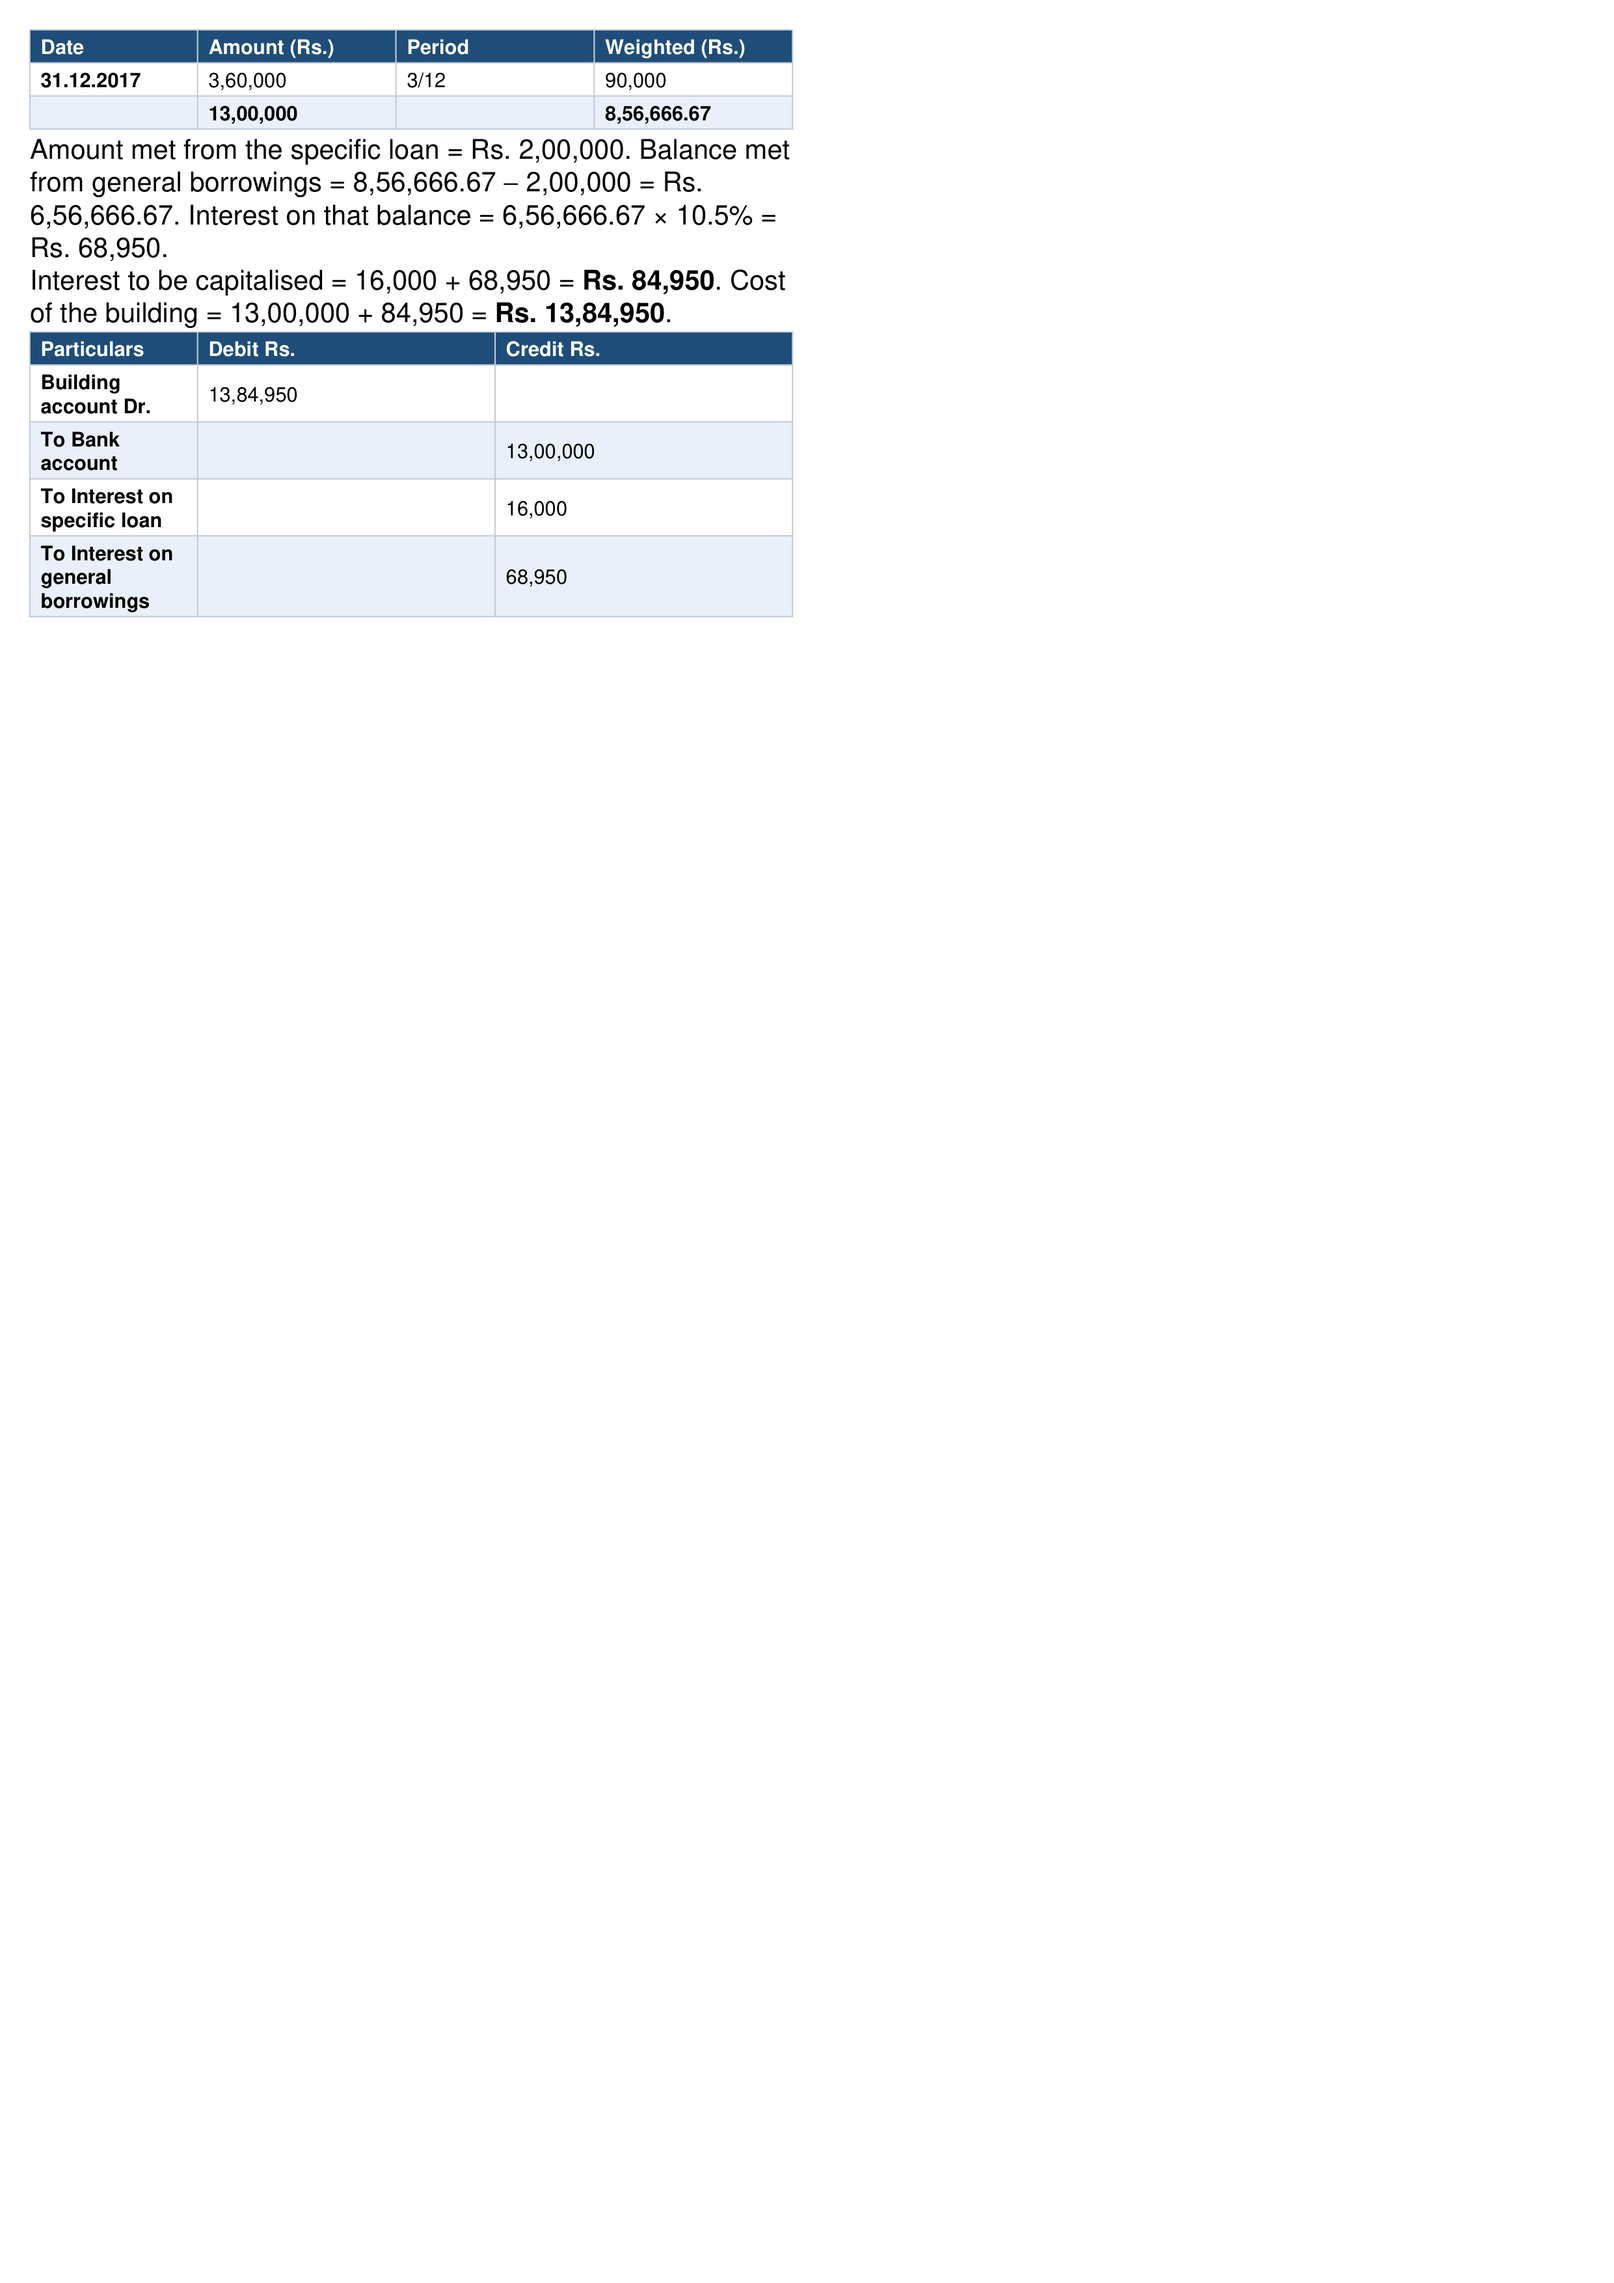
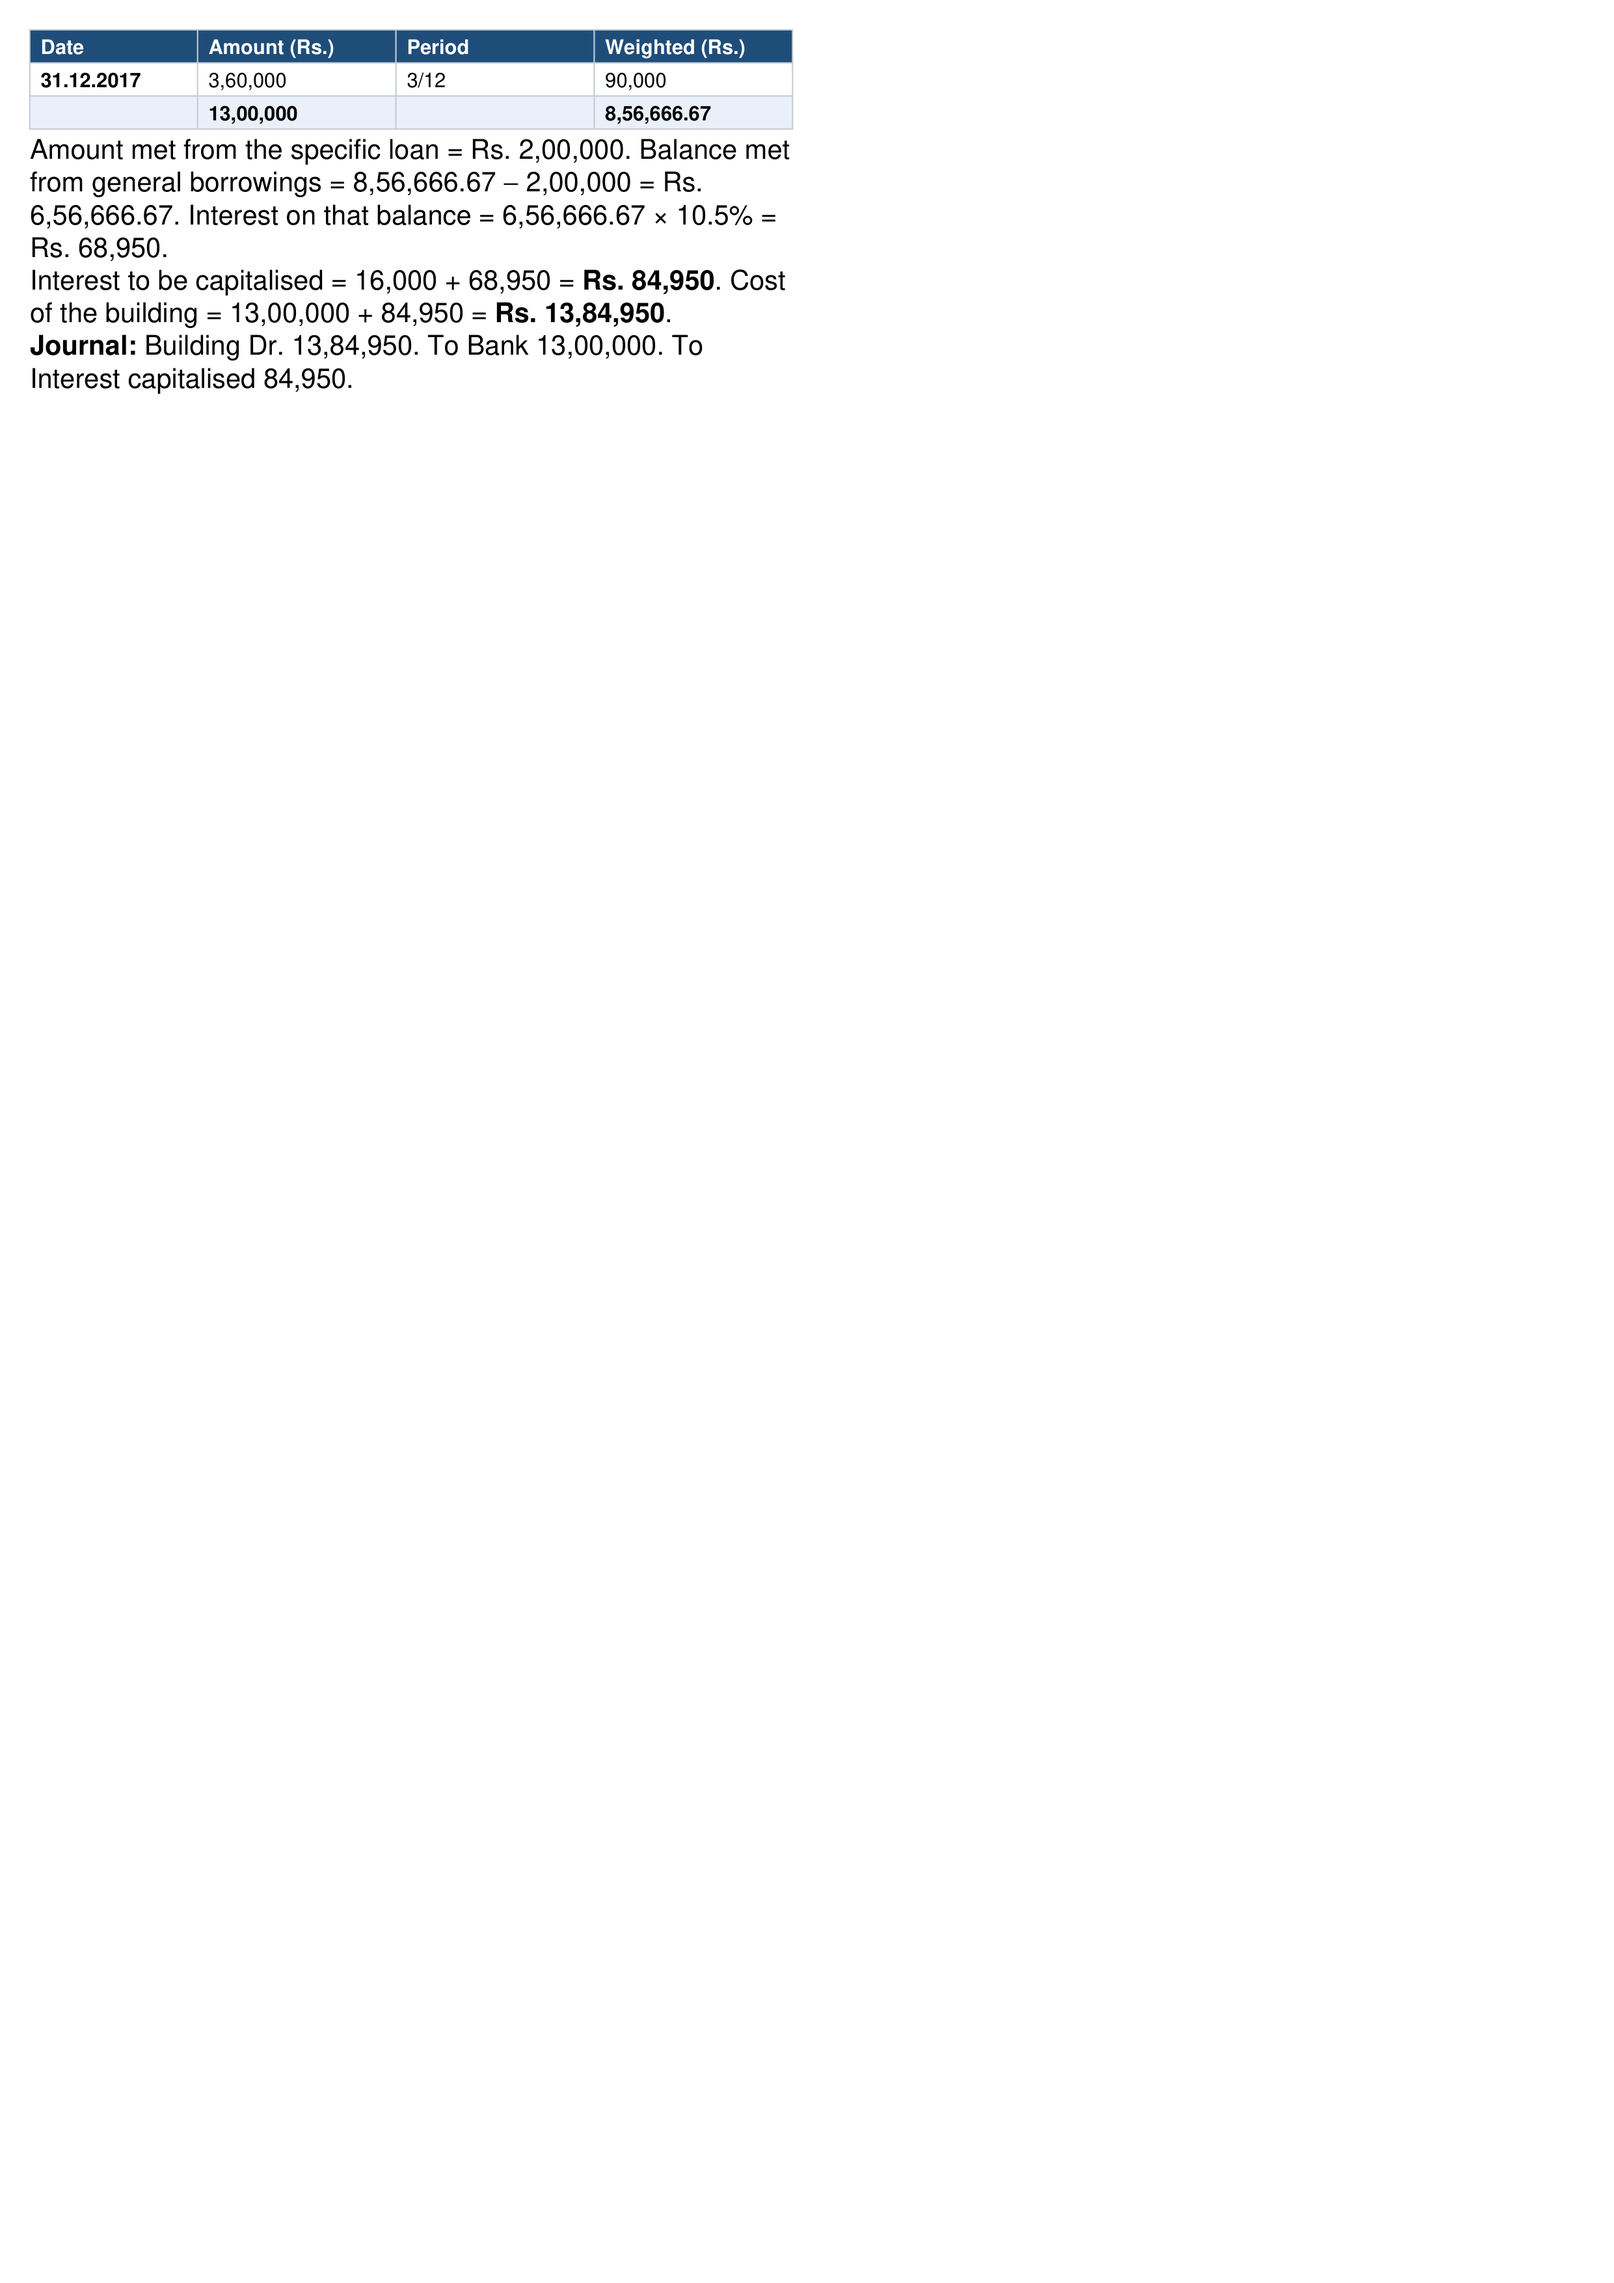
Add a single-column reading copy of the Accounting Standards answers.
The print sheet stays two columns at 10 pt. The reading copy is one column at 12.5 pt, and the journal is one line so it stays with the working.

Changed region(s): [[0.0, 0.1243, 0.4966, 0.2796], [0.3104, 0.2486, 0.3414, 0.2796]]

diff --git a/papers/accounting-standards-54323/answers.md b/papers/accounting-standards-54323/answers.md
@@ -220,9 +220,4 @@ Amount met from the specific loan = Rs. 2,00,000. Balance met from general borro
 
 Interest to be capitalised = 16,000 + 68,950 = **Rs. 84,950**. Cost of the building = 13,00,000 + 84,950 = **Rs. 13,84,950**.
 
-| Particulars | Debit Rs. | Credit Rs. |
-| --- | --- | --- |
-| Building account Dr. | 13,84,950 | |
-| To Bank account | | 13,00,000 |
-| To Interest on specific loan | | 16,000 |
-| To Interest on general borrowings | | 68,950 |
+**Journal:** Building Dr. 13,84,950. To Bank 13,00,000. To Interest capitalised 84,950.
